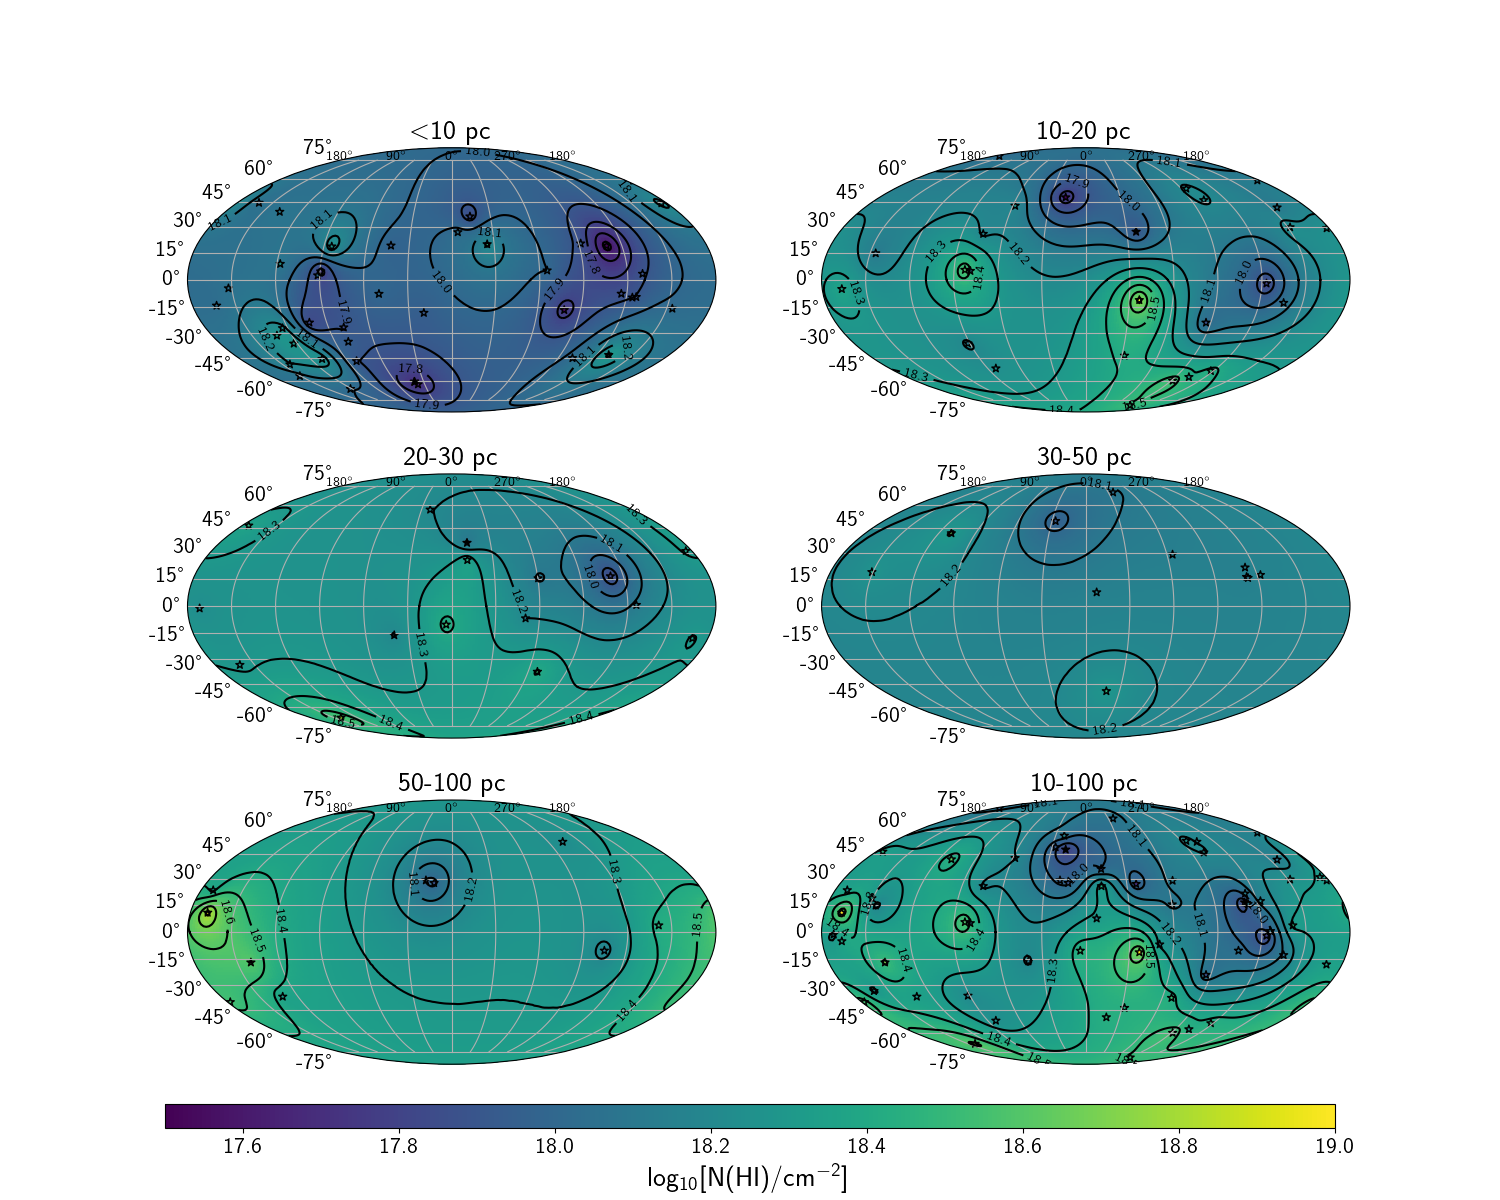
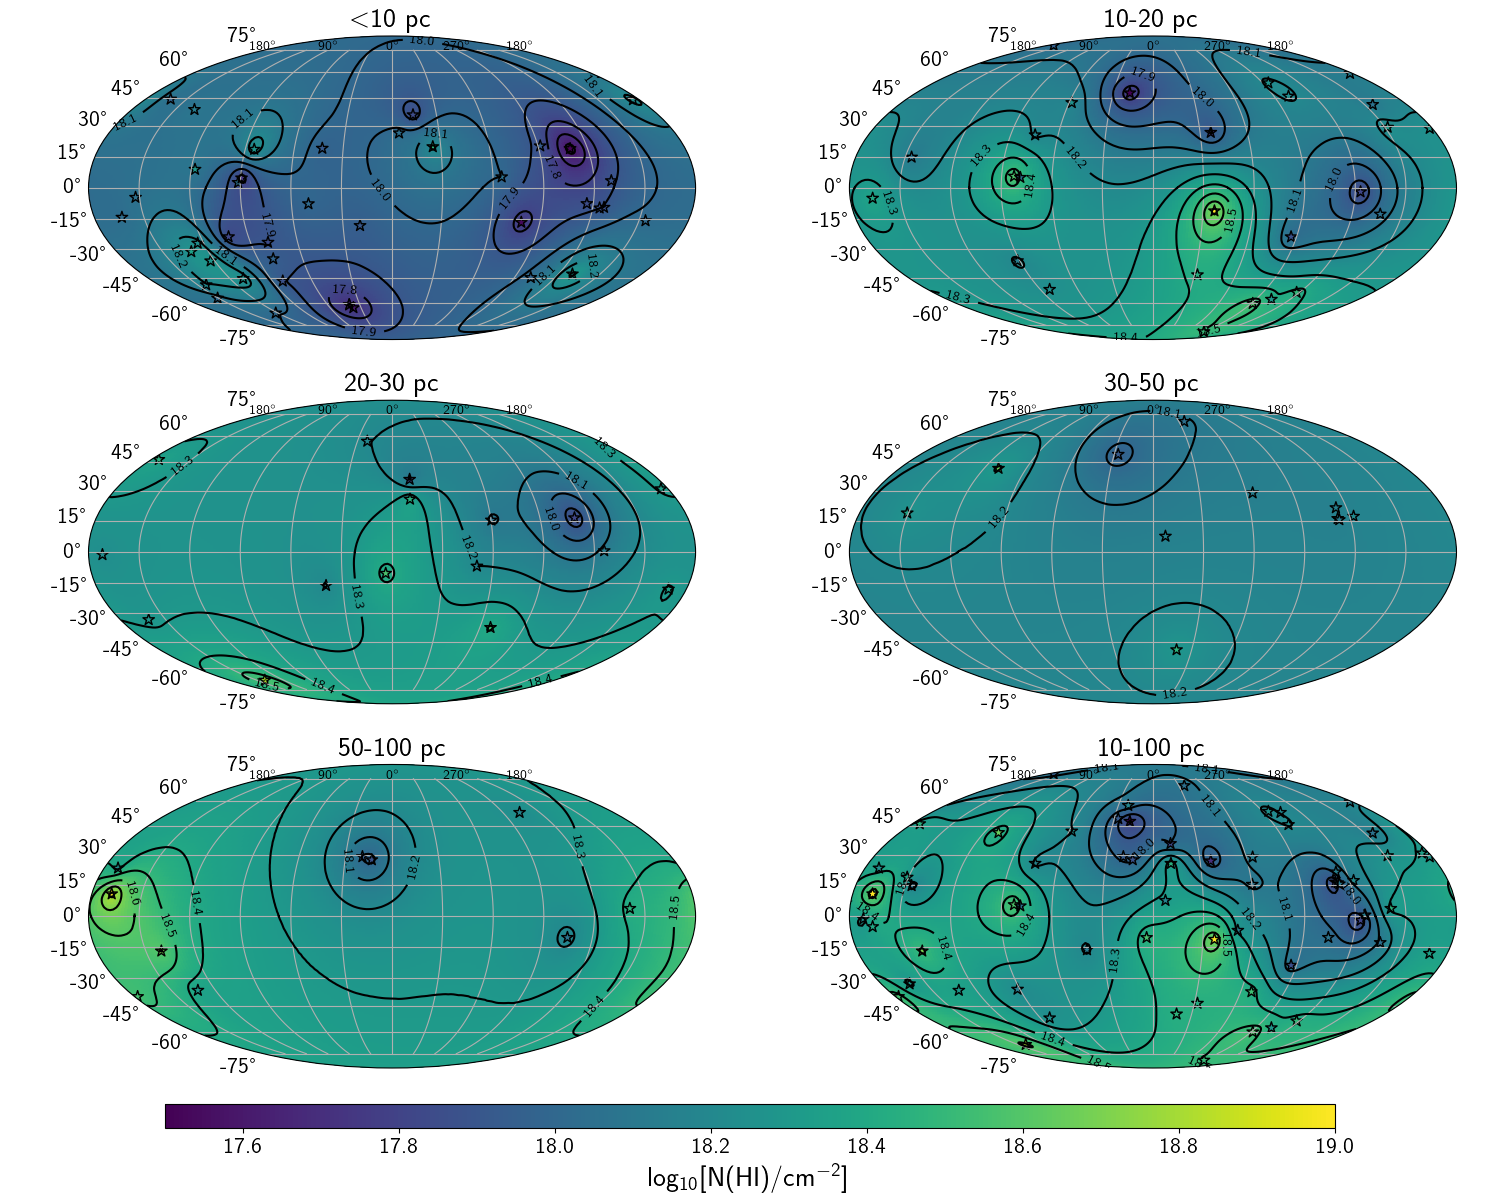
minor updates

diff --git a/analyze_NHI_maps.py b/analyze_NHI_maps.py
@@ -153,7 +153,7 @@ for i in range(len(file_prefixes)):
         -phi_obs+np.pi,
         theta_obs,
         c=y_obs,
-        edgecolor="k",vmin=17.5,vmax=19,marker='*',s=12,edgecolors='w')
+        edgecolor="k",vmin=17.5,vmax=19,marker='*',s=75,edgecolors='w')
 
     CS=axes_list[i].contour(-phi+np.pi,
         theta,
